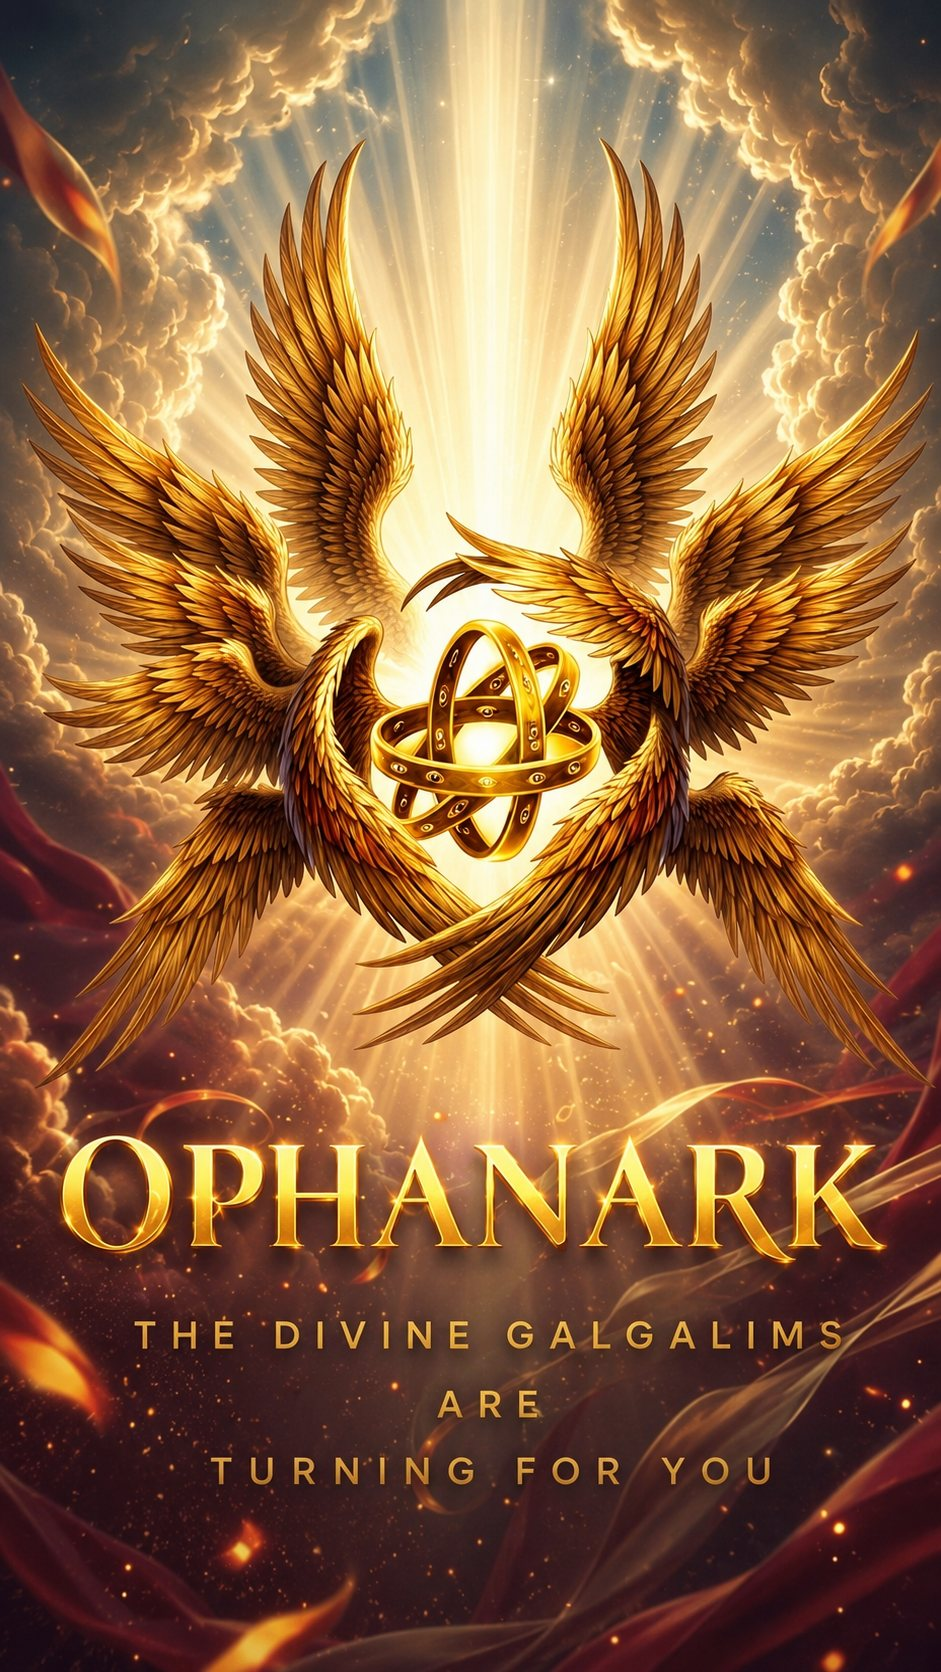
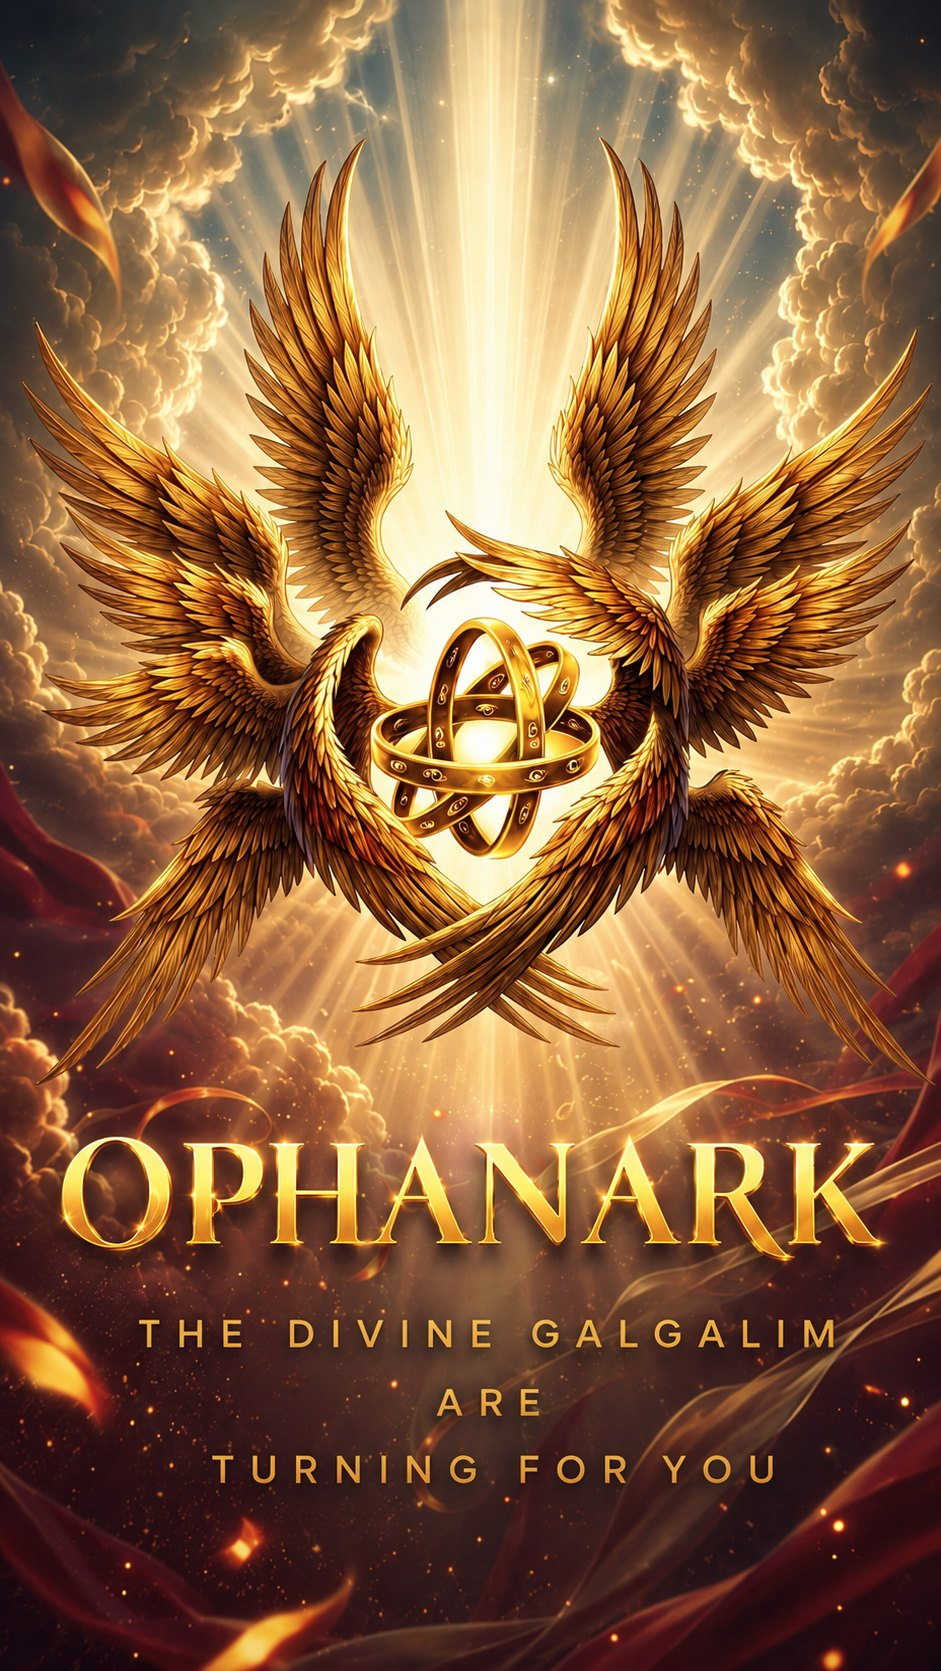
Add files via upload

diff --git a/sw.js b/sw.js
@@ -1,5 +1,5 @@
 /* Ophanark PWA service worker */
-var CACHE = 'ophanark-v23';
+var CACHE = 'ophanark-v24';
 var CORE = [
   './','./index.html','./manifest.webmanifest','./opening.jpg',
   './app-icon-192.png','./app-icon-512.png','./app-apple-touch.png'